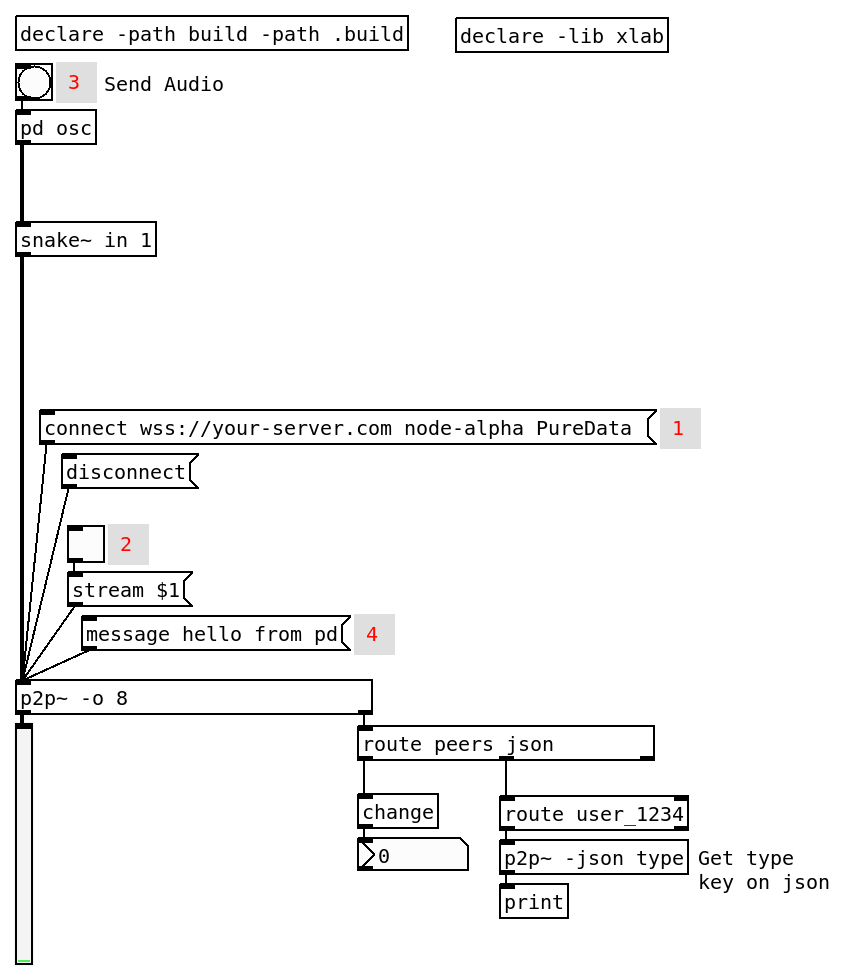
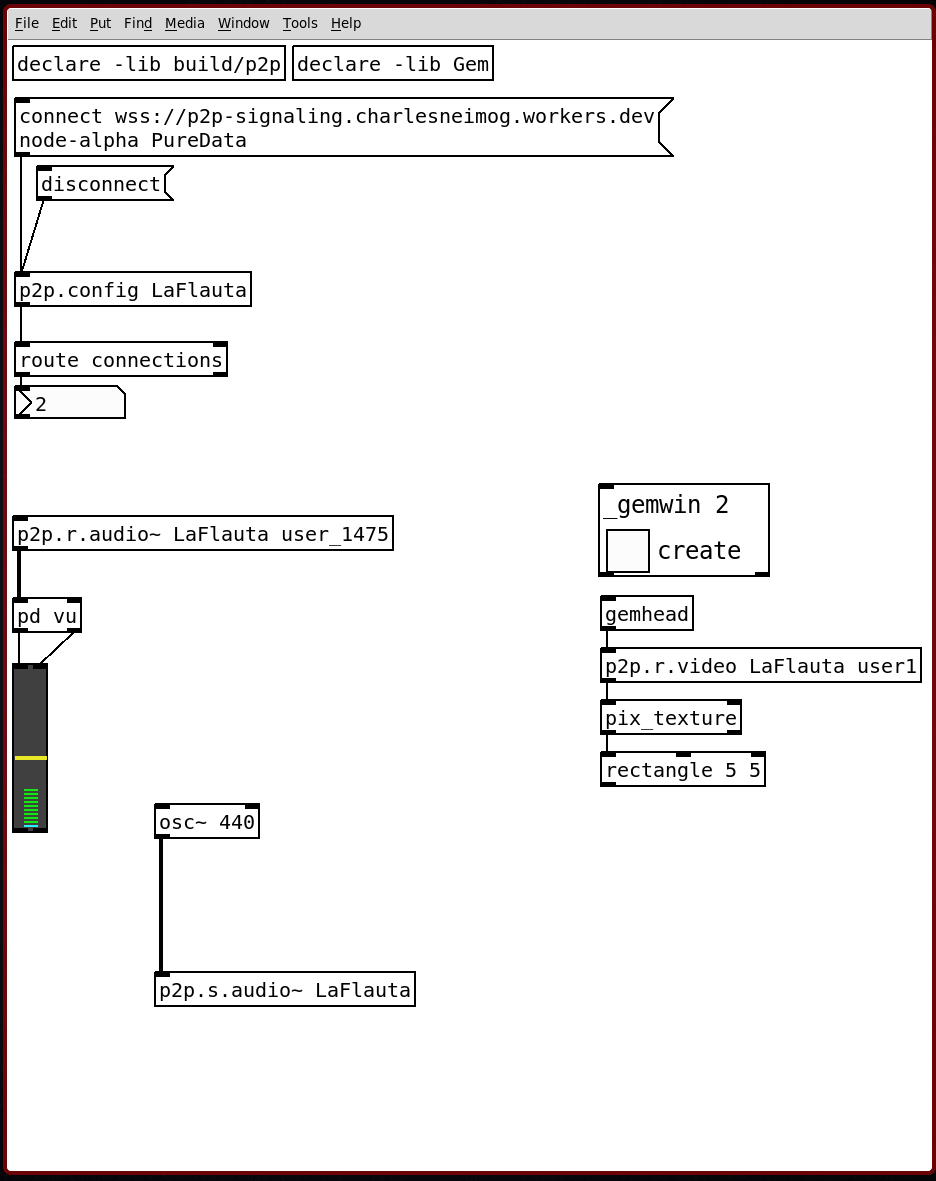
fixes

Changed region(s): [[0.0, 0.0, 1.0, 1.0], [0.7341, 0.7653, 0.7647, 0.7959]]

diff --git a/README.md b/README.md
@@ -14,6 +14,10 @@ The collection provides:
 All objects belonging to one connection use the same session name as their
 first argument.
 
+## Testing
+
+Use [https://charlesneimog.github.io/p2p/](https://charlesneimog.github.io/p2p/) to test the objects. Do not use this for your pieces, I can change this when I want! Check [`signaling-server`](signaling-server) directory to configure your server, it is easy and free!
+
 ## Compile
 
 Requirements are CMake 3.30 or newer, a C/C++ compiler, Boost, and the Pure
